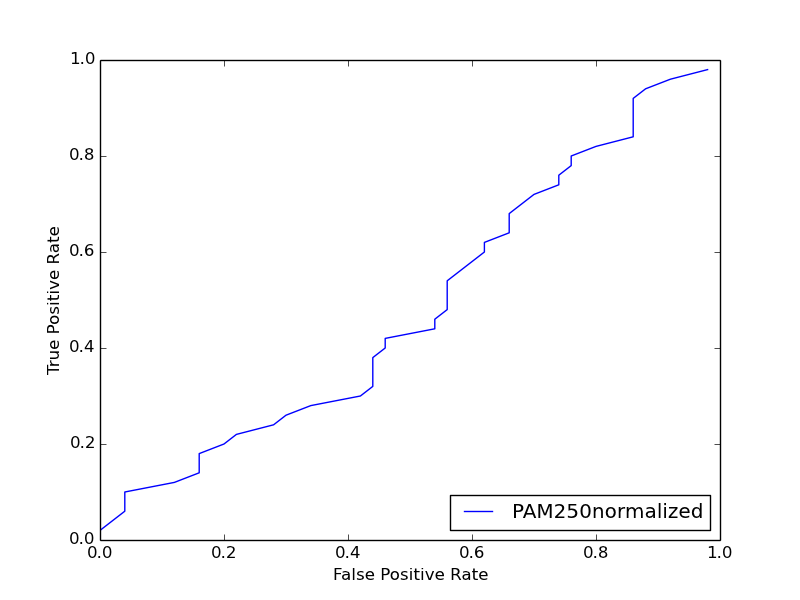
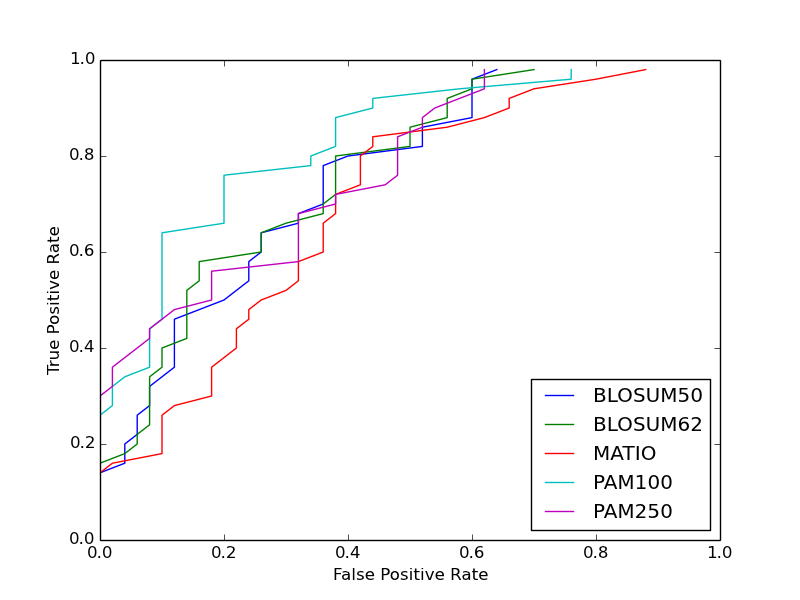
generated ROC curves again for all matrices

diff --git a/SmithWaterman/ROC_curves.py b/SmithWaterman/ROC_curves.py
@@ -54,7 +54,7 @@ def main():
     [sub_Matrix, origSubMatrix, AAlist] = subMdict.mk_dict(home+subMatrixFile)
     
     # for testing different scoring matrices
-    '''
+    
     for i in range(0,len(subMatrixFile_list)):
         [sub_Matrix, origsubMatrix, AAlist] = subMdict.mk_dict(home+subMatrixFile_list[i]) 
         [pos_scores, pos_align_array] = slSW.scores_from_seq_list(home, pos_seq_list_file, sub_Matrix,origSubMatrix, gap_init, gap_ext)
@@ -66,6 +66,7 @@ def main():
     [neg_scores, neg_align_array]= slSW.scores_from_seq_list(home, neg_seq_list_file, sub_Matrix, origSubMatrix, gap_init, gap_ext)
     ROC_array = ROC_graph(pos_scores, neg_scores,)
     pylab.plot(ROC_array[:,1], ROC_array[:,0]/100, label = subMatrixFile+'normalized')
+    '''
     pylab.axis([0,1,0,1])
     pylab.legend(loc = 'lower right')
     pylab.ylabel('True Positive Rate')

diff --git a/SmithWaterman/seq_list_SW.py b/SmithWaterman/seq_list_SW.py
@@ -119,8 +119,8 @@ def main():
     for i in range(0,len(subMatrixFile_list)):
         [sub_Matrix, origsubMatrix, AAlist] = subMdict.mk_dict(home+subMatrixFile_list[i])
     
-        [pos_score_list, pos_alignment_array] = scores_from_seq_list(home,pos_seq_list_file, sub_Matrix, origSubMatrix,7, 3)
-        [neg_score_list, neg_alignment_array] = scores_from_seq_list(home,neg_seq_list_file, sub_Matrix, origSubMatrix, 7, 3)
+        [pos_score_list, pos_alignment_array] = scores_from_seq_list(home,pos_seq_list_file, sub_Matrix, origSubMatrix,6, 5)
+        [neg_score_list, neg_alignment_array] = scores_from_seq_list(home,neg_seq_list_file, sub_Matrix, origSubMatrix, 6, 5)
         false_pos_rt= false_pos_rate(pos_score_list, neg_score_list)
         FP_array.append([subMatrixFile_list[i], false_pos_rt])
         
